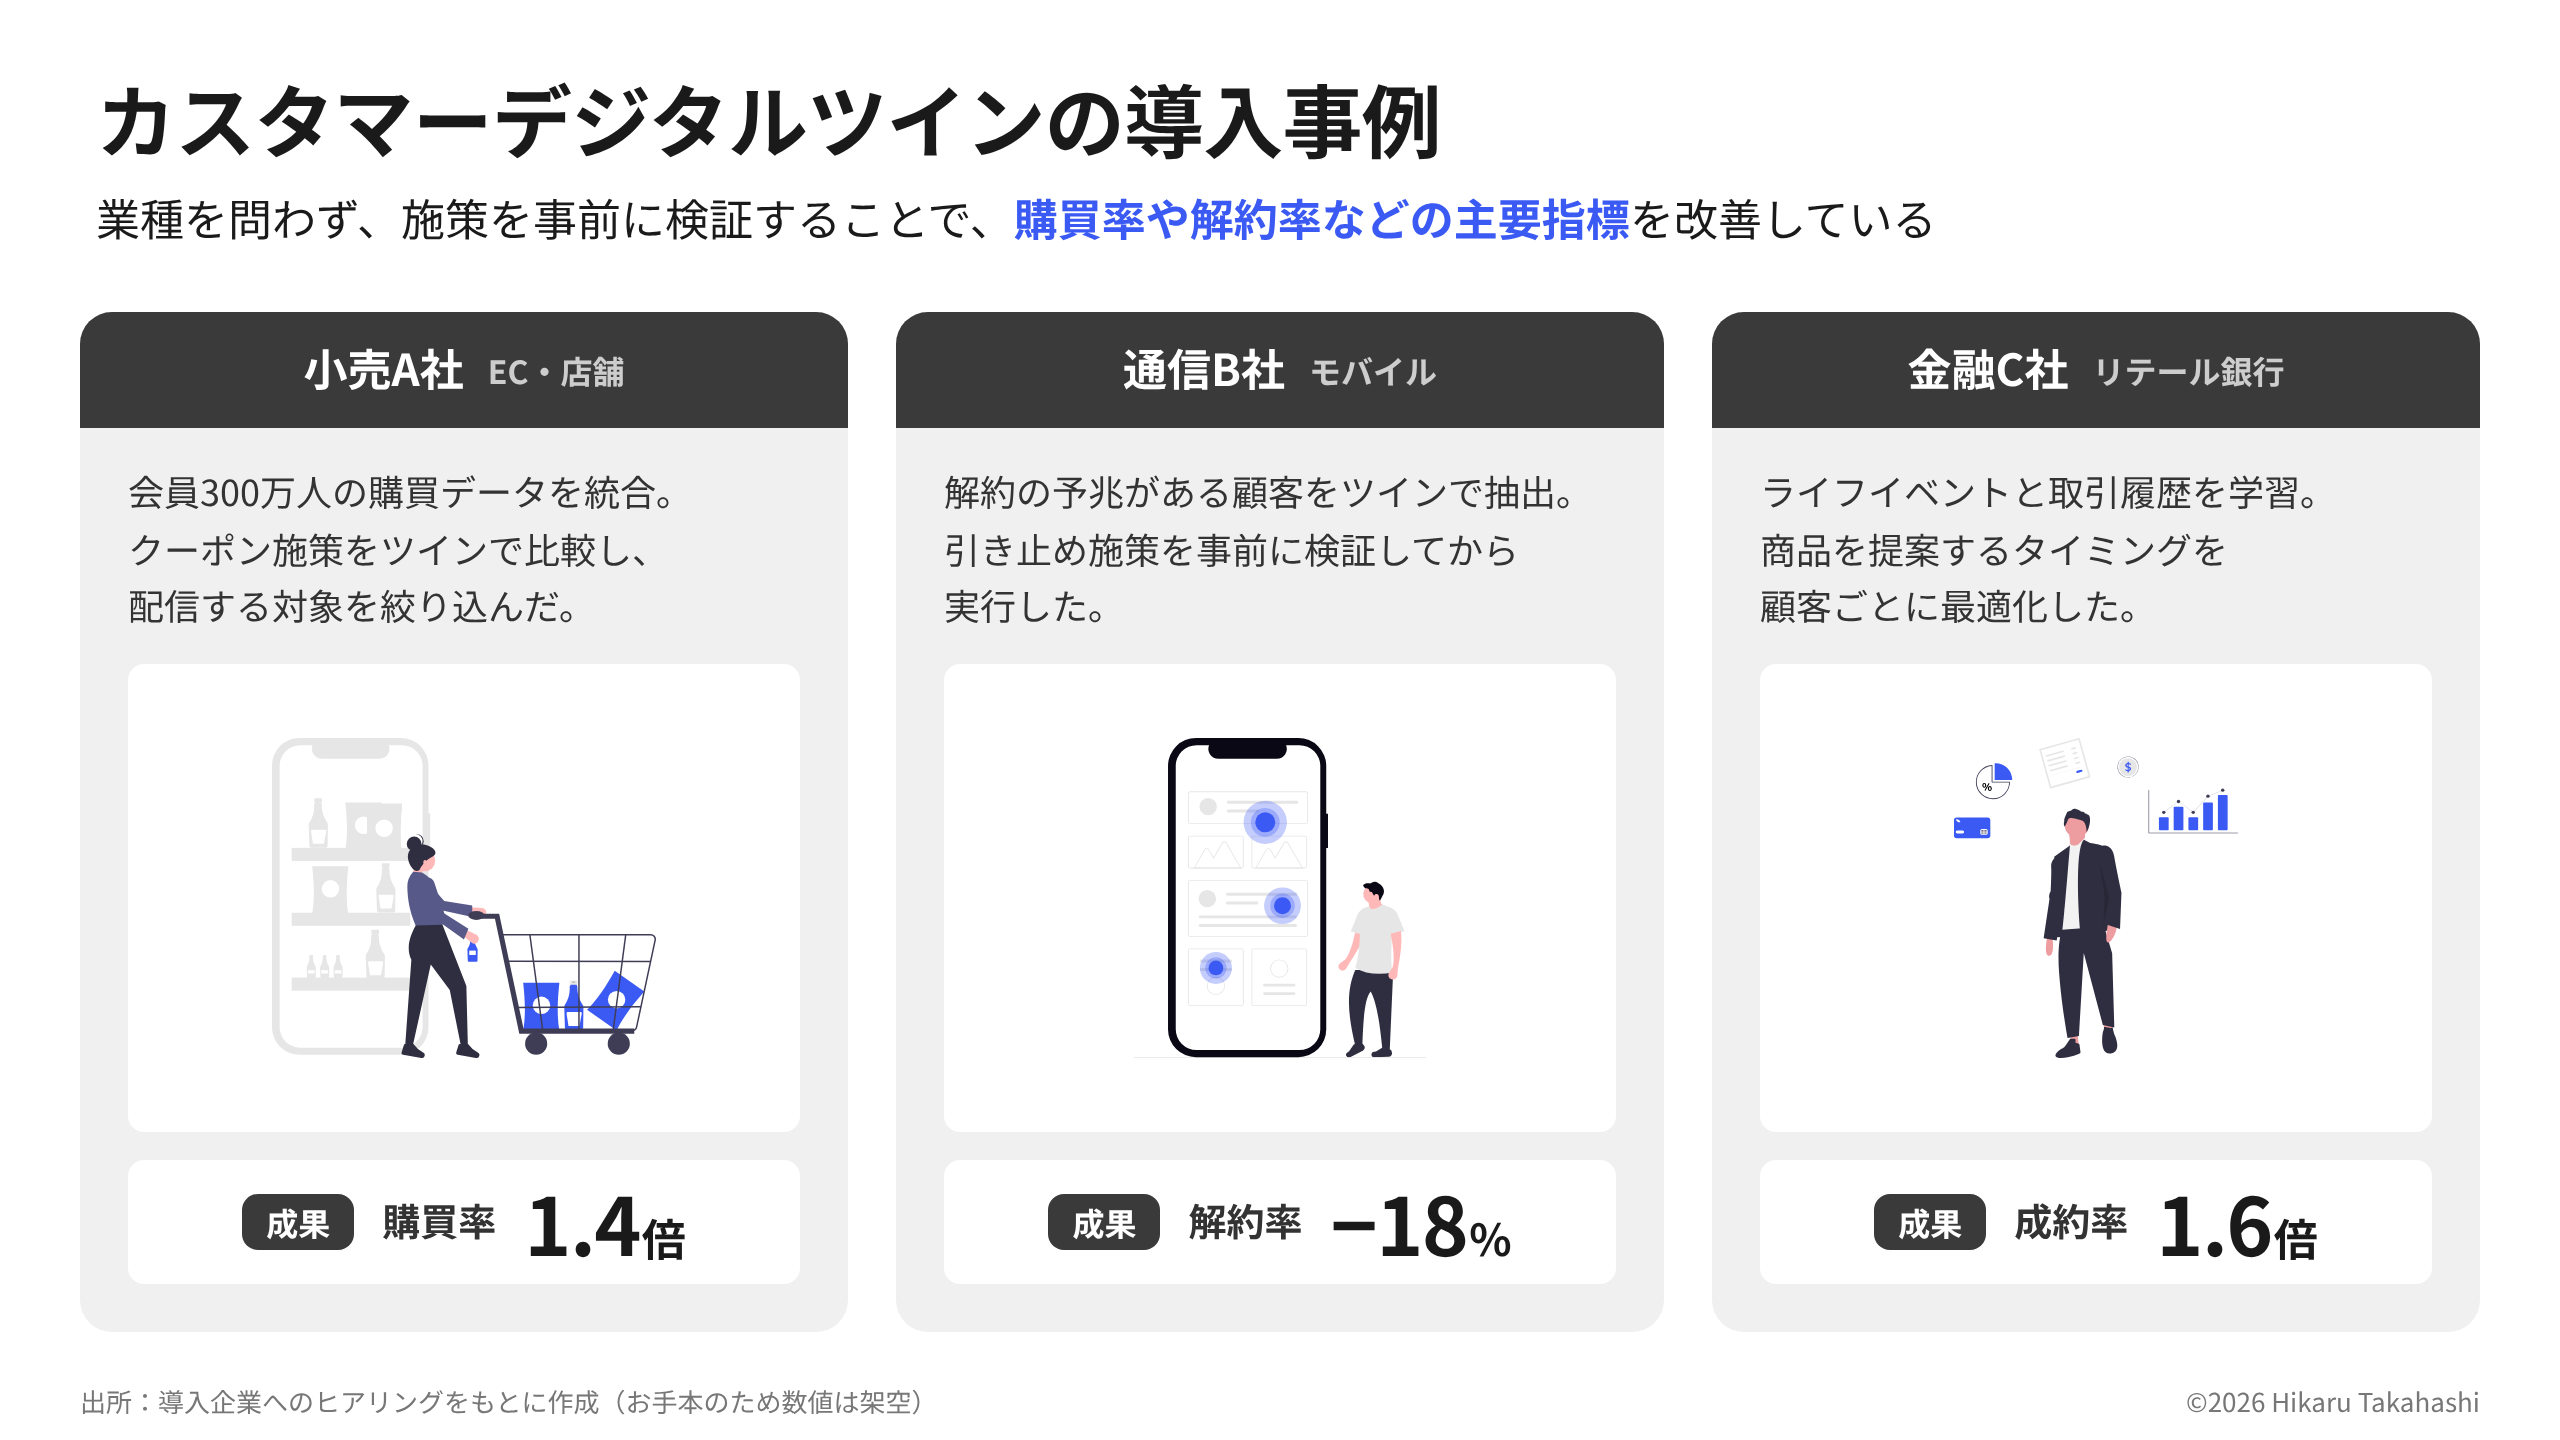
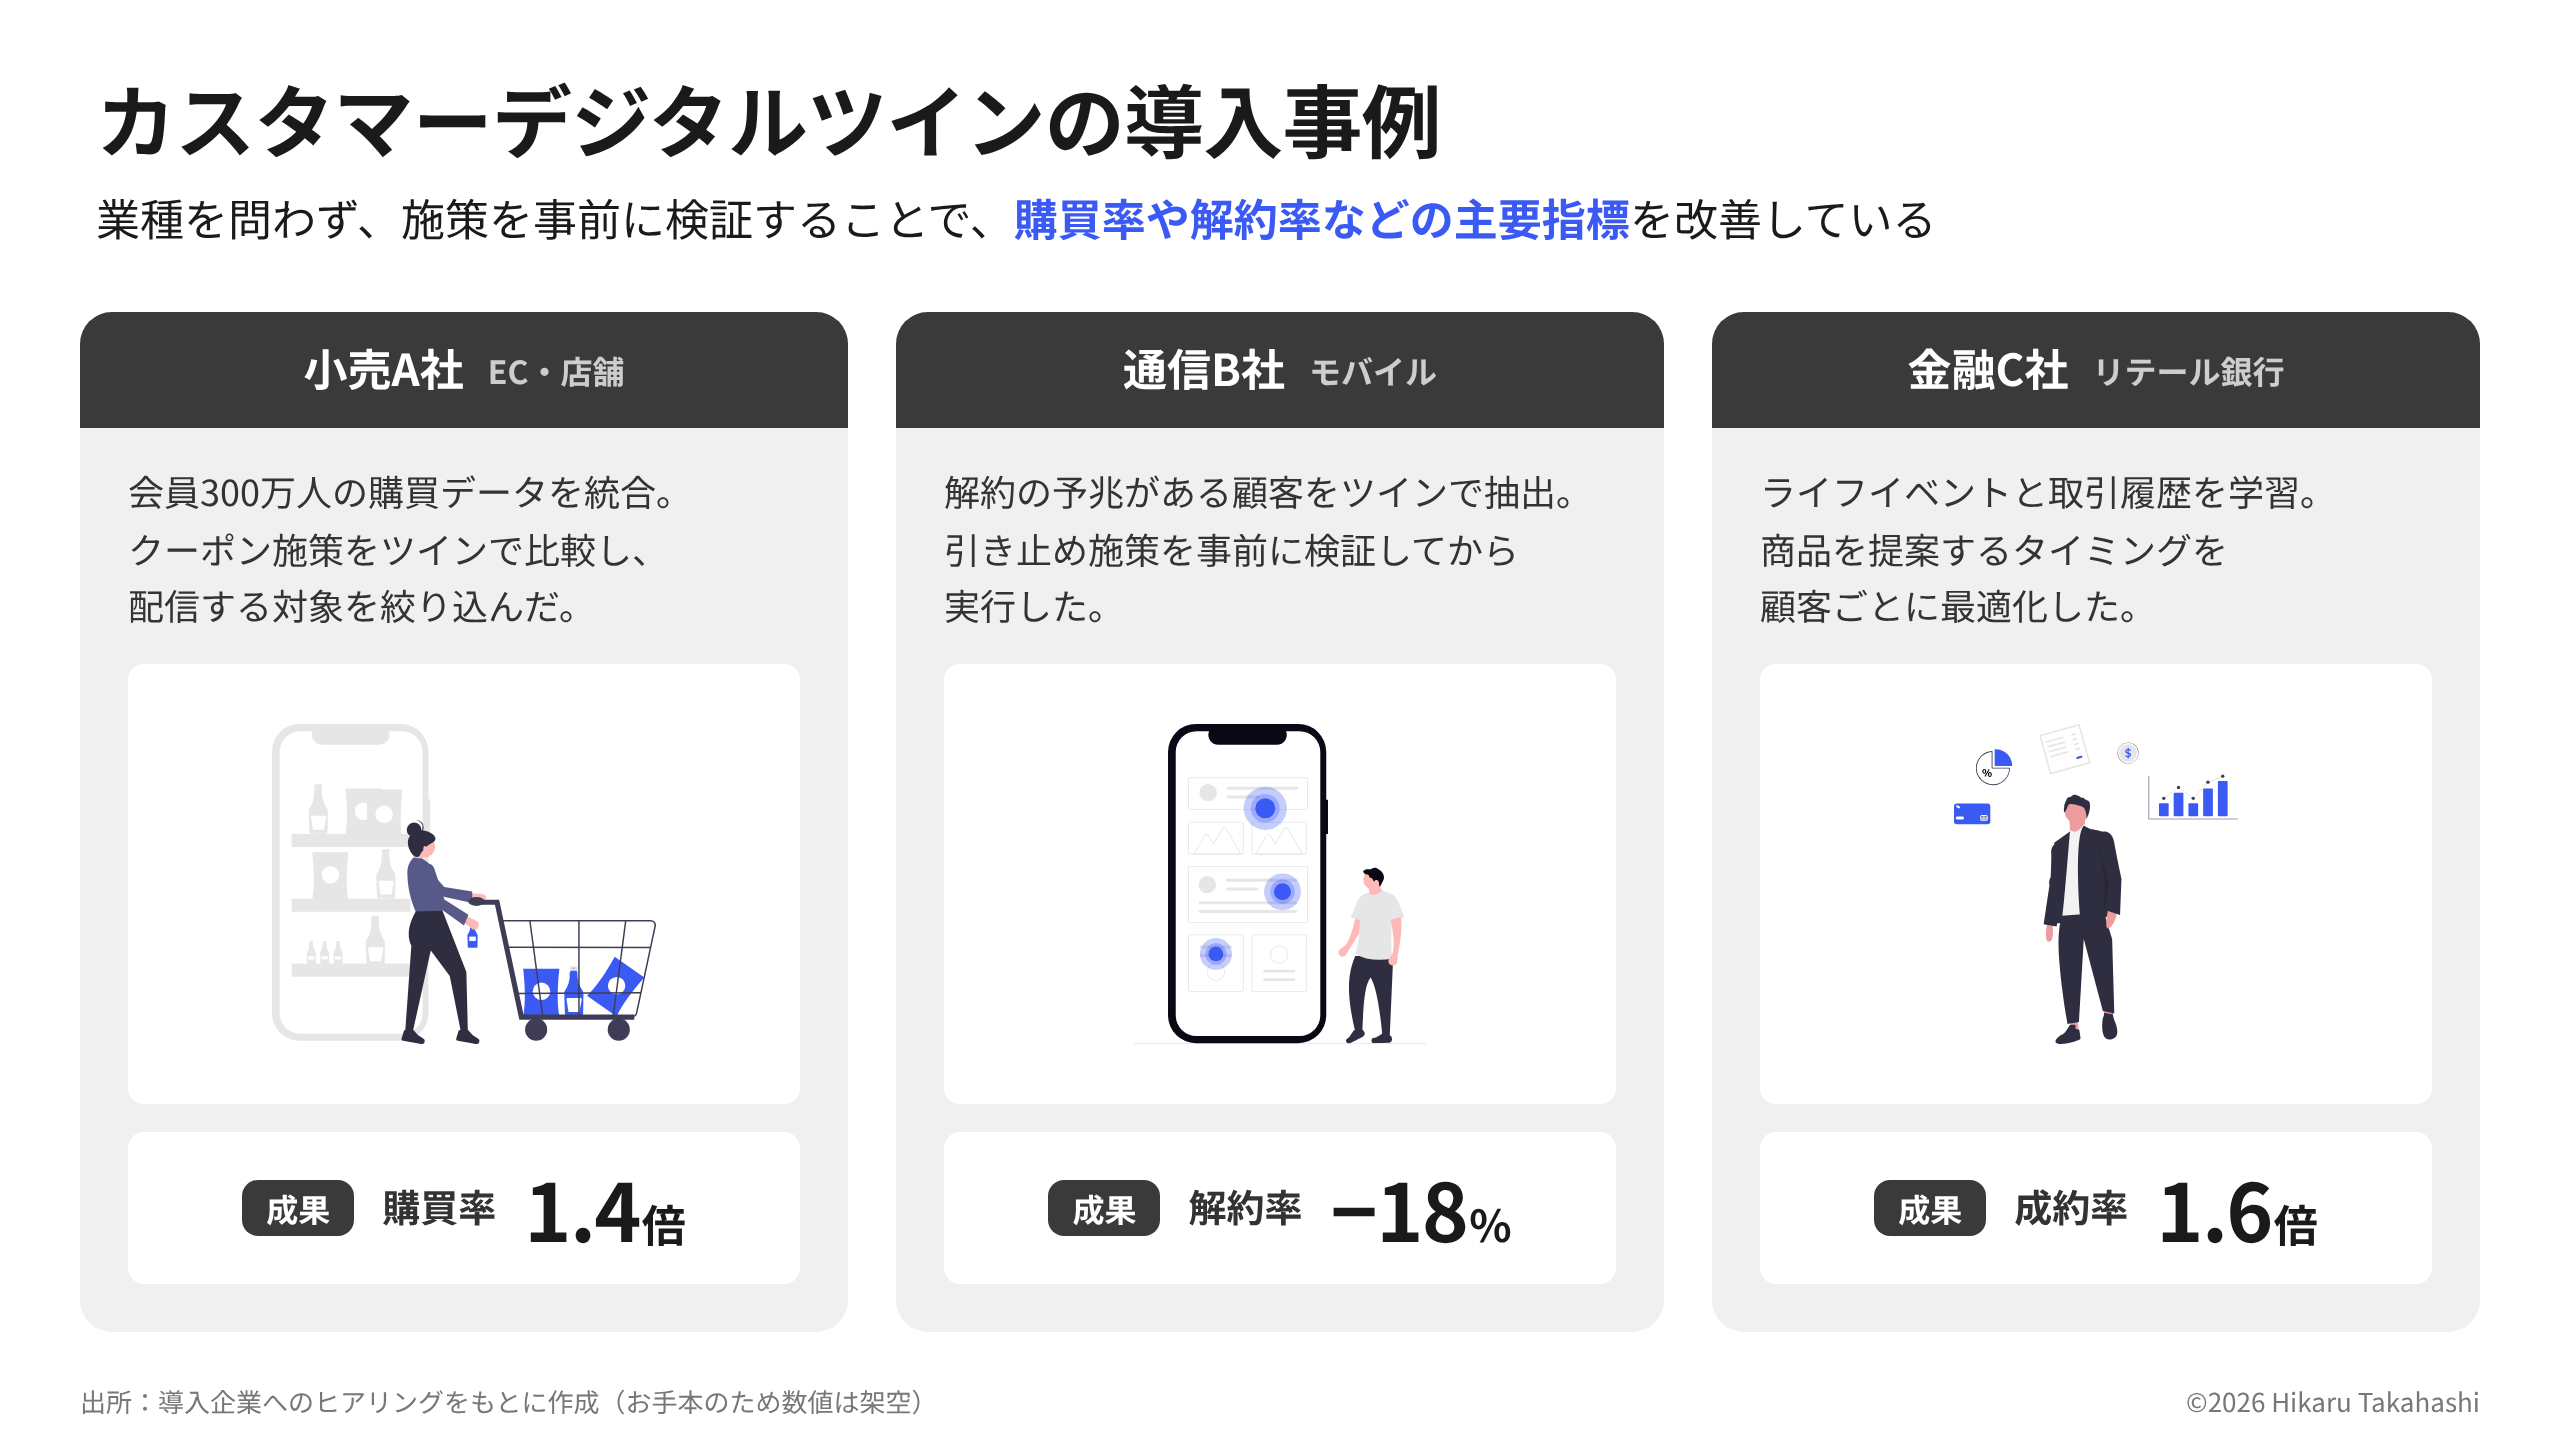
[change] Merge ponchi-e reasons example into cases
Claude-Session: https://claude.ai/code/session_012cCLoDMk9pvVGkUrcV6o3v

diff --git a/ponchi-e/examples/cases.html b/ponchi-e/examples/cases.html
@@ -1,6 +1,8 @@
-<!-- パターン: cases（同じ重みの3項目を、見出し＋説明＋画像のカードで並べる）
-     導入事例・実績・プロフィール・活動紹介など。見出しは濃いグレーの帯、本文はグレーの面。
-     画像はユーザーから受け取った写真・スクリーンショット・書影などを白い枠に入れる（ない場合はイラストで代用）。
+<!-- パターン: cases（同じ重みの2〜3項目を、見出し＋説明＋画像＋結論のカードで並べる）
+     導入事例・実績・プロフィール・活動紹介、理由・特長・ポイントなど。見出しは濃いグレーの帯、本文はグレーの面。
+     理由・特長を並べるときは、見出し帯を「① 理由の一言」にし、最下段のピルを「その結果」などにして、
+     結論の一言でキーメッセージにつなげる。必要ならカードの上に「＜〜の3つの理由＞」の小見出しを置く。
+     画像はユーザーから受け取った写真・スクリーンショット・書影などを白い枠に入れる。ない場合は unDraw から、各項目の中身を表すイラストを1点ずつ選んで入れる（アイコンで代用しない）。
      最下段に成果などの共通の観点を揃えて置く（区切り線は引かず、白い面で分ける） -->
 <style>
   .case { position: absolute; top: 0; width: 384px; height: 510px; display: flex; flex-direction: column; background: var(--gray-bg); border-radius: var(--r); overflow: hidden; }
@@ -9,7 +11,7 @@
   .case p { padding: 18px 24px 0; font-size: 18px; line-height: 1.6; }
   .case-img { margin: 14px 24px 0; flex: 1; min-height: 0; background: #fff; border-radius: var(--r-sm); display: flex; align-items: center; justify-content: center; }
   .case-img img { height: 160px; }
-  .case-kpi { margin: 14px 24px 24px; padding: 10px 0; background: #fff; border-radius: var(--r-sm); display: flex; align-items: center; justify-content: center; gap: 14px; flex: none; }
+  .case-kpi { white-space: nowrap; height: 76px; margin: 14px 24px 24px; padding: 0; background: #fff; border-radius: var(--r-sm); display: flex; align-items: center; justify-content: center; gap: 14px; flex: none; }
   .case-kpi .pill { font-size: 16px; padding: 2px 12px; }
   .case-kpi .lbl { font-size: 19px; font-weight: 700; }
   .case-kpi .num { font-size: 40px; color: #1a1a1a; }

diff --git a/ponchi-e/SKILL.md b/ponchi-e/SKILL.md
@@ -1,6 +1,6 @@
 ---
 name: ponchi-e
-description: 戦略コンサルタントが作成したような、洗練されたポンチ絵（1枚で概念や全体像を伝える図解スライド）を16:9の画像（PNG）で作成する。上から順に「スライドタイトル → キーメッセージ → コンテンツ」の構成にし、まず examples の型（概要の流れ図・事例カード・放射図・レベル図・ロードマップ・比較表・3つの理由など）から内容に合うものを選んでその構成を土台にし、当てはまらないときだけ内容に合った図を新しく組んで、要素を表す unDraw のイラストと Lucide のアイコンでひと目でわかる図にする（飾りのイラストは使わない）。数字は references/charts.md のグラフ・図解（人数なら人型の絵グラフ、絞り込みならファネルなど）で見せる。文字は大きく強弱をつけ、無駄な余白も詰め込みもない図にする。メインカラーは theme.css で指定（既定は #3b5af4）。「スライドを作って」「ポンチ絵にして」「資料を画像で」「1枚にまとめて」「全体像を図にして」と言われたときに使う。
+description: 戦略コンサルタントが作成したような、洗練されたポンチ絵（1枚で概念や全体像を伝える図解スライド）を16:9の画像（PNG）で作成する。上から順に「スライドタイトル → キーメッセージ → コンテンツ」の構成にし、まず examples の型（概要の流れ図・事例や理由のカード・放射図・レベル図・ロードマップ・比較表など）から内容に合うものを選んでその構成を土台にし、当てはまらないときだけ内容に合った図を新しく組んで、要素を表す unDraw のイラストと Lucide のアイコンでひと目でわかる図にする（飾りのイラストは使わない）。数字は references/charts.md のグラフ・図解（人数なら人型の絵グラフ、絞り込みならファネルなど）で見せる。文字は大きく強弱をつけ、無駄な余白も詰め込みもない図にする。メインカラーは theme.css で指定（既定は #3b5af4）。「スライドを作って」「ポンチ絵にして」「資料を画像で」「1枚にまとめて」「全体像を図にして」と言われたときに使う。
 ---
 
 # ポンチ絵作成（16:9画像）
@@ -34,12 +34,11 @@ HTML（1280×720）でスライドを組み、`scripts/render.py` で PNG（2560
 | 内容 | 型（`examples/`） |
 |---|---|
 | サービス・仕組み・構想の概要（何を入れて、何をして、何が得られるか） | `flow` |
-| 導入事例・実績・取り組みを、同じ重みで2〜3つ紹介する（カードごとに unDraw のイラスト） | `cases` |
+| 同じ重みの項目を2〜3つ並べる：導入事例・実績・取り組み、理由・特長・ポイント（カードごとに unDraw のイラスト） | `cases` |
 | 中心となる概念と、それを取り巻く要素・関係者 | `hub` |
 | 成熟度・段階・レベルと、対象者やプランの対応 | `levels` |
 | 進め方・ロードマップ・スケジュール | `phases` |
 | 2〜3案（プラン・選択肢）の比較 | `compare` |
-| 理由・特長・ポイントを3つ並べる（カードごとに unDraw のイラスト） | `reasons` |
 | 数値目標と施策、詳細ロードマップ、短期・中長期のプラン | `goal`・`gantt`・`plans`（画像のみ。PNG を見て組む） |
 
 - **選ぶ前に、候補の型の PNG を Read ツールで開いて見比べる。** 1つに決めたら、その HTML を土台にする。
@@ -60,7 +59,7 @@ HTML（1280×720）でスライドを組み、`scripts/render.py` で PNG（2560
   python3 ~/.claude/skills/ponchi-e/scripts/undraw.py search "data server"
   python3 ~/.claude/skills/ponchi-e/scripts/undraw.py get <URL> <出力先>/il_data.svg
   ```
-  unDraw に接続できないときは、同梱のイラスト（`examples/il_*.svg`：`il_collect` データ・サーバー、`il_act` 人と画面、`il_finance` ビジネスパーソンとグラフ、`il_retail` 買い物、`il_telecom` スマートフォン、`il_segments` 顧客の区分、`il_options` 選択肢、`il_warning` 警告）を `recolor` で色を合わせて使う。
+  unDraw に接続できないときは、同梱のイラスト（`examples/il_*.svg`：`il_collect` データ・サーバー、`il_act` 人と画面、`il_finance` ビジネスパーソンとグラフ、`il_retail` 買い物、`il_telecom` スマートフォン）を `recolor` で色を合わせて使う。
   ```bash
   python3 ~/.claude/skills/ponchi-e/scripts/undraw.py recolor ~/.claude/skills/ponchi-e/examples/il_collect.svg <出力先>/il_collect.svg
   ```
